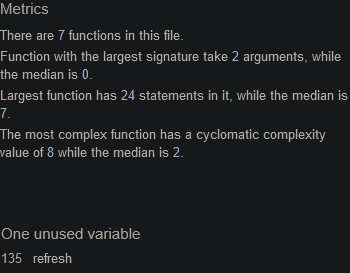
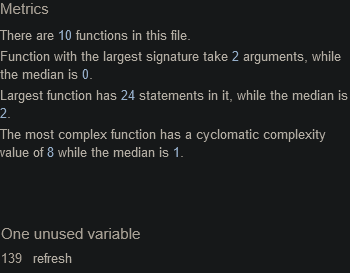
update to readme page (testing section)

diff --git a/assets/js/script.js b/assets/js/script.js
@@ -5,10 +5,10 @@ const resultDisplay = document.querySelector('#result');
 const possibleChoices = document.querySelectorAll('.button');
 const win = document.querySelector('.win');
 const lose = document.querySelector('.lose');
-const open = document.querySelector('#open');
+const openModal = document.querySelector('#open');
 const modalContainer = document.querySelector('#modal_container');
-const close = document.querySelector('#close');
-const dark = document.querySelector('#dark')
+const closeModal = document.querySelector('#close');
+const dark = document.querySelector('#dark');
 const element = document.body;
 let userChoice;
 let computerChoice;
@@ -141,16 +141,16 @@ function refresh(possibleChoices){
 }
 
 // Show the Modal Box when you click the RULES button
-open.addEventListener('click', () => {
+openModal.addEventListener('click', () => {
    modalContainer.classList.add('show');
-})
+});
 
 // Closes the Modal Box when you click the CLOSE button inside.
-close.addEventListener('click', () => {
+closeModal.addEventListener('click', () => {
    modalContainer.classList.remove('show');
-})
+});
 
 // Turns on background colour of the black when you click the DARK MODE button
 dark.addEventListener('click', () => {
    element.classList.toggle('dark-mode');
-})
+});

diff --git a/README.md b/README.md
@@ -194,8 +194,11 @@ This is the main page of the website which provides a playable game of rock, pap
     - ### CSS
 
         - No errors were found when passing through the official Jigsaw Validator.
+
+        - 1 warning line 158: 'auto' is not defined by any specification as an allowed value for 'pointer-events, but is supported in multiple browsers.
         
         <h2 align='center'><img src='assets/images/css-validator.png'></h2>
+        <h2 align='center'><img src='assets/images/css-warning.png'></h2>
 
     - ### JavaScript
 
@@ -203,15 +206,15 @@ This is the main page of the website which provides a playable game of rock, pap
 
             - The following metrics were returned:
 
-            - There 7 functions in this file.
+            - There are 10 functions in this file.
 
             - Function with the largest signature takes 2 arguments, while the median is 0.
 
-            - Largest function has 24 statements in it, while the median is 7.
+            - Largest function has 24 statements in it, while the median is 2.
 
-            - The most complex functions has a cyclomatic complexity value of 8 while the median is 2.
+            - The most complex functions has a cyclomatic complexity value of 8 while the median is 1.
 
-            - One unused variable "refresh".
+            - One unused variable "refresh" on line 139 (this is the refresh function for the RESTART button).
             
         <h2 float='left'><img src='assets/images/js-validator.png'></h2>
 
@@ -238,13 +241,15 @@ This is the main page of the website which provides a playable game of rock, pap
     The live link can be found here -  https://themanintheback.github.io/Project2/
 
 - ## LightHoues Test
+
     - The results are as follows:
-    - Performance: 94
-    - Accessibility: 79
-    - Best Practices: 92
+    - Performance: 93
+    - Accessibility: 75
+    - Best Practices: 100
     - SEO: 91
 
-    <h2 align='center'><img src='assets/images/lighthouse-test.png'></h2
+    <h2 align='center'><img src='assets/images/lighthouse-report.png'></h2
+
 # Credits
 
 - ## Code
@@ -252,6 +257,10 @@ This is the main page of the website which provides a playable game of rock, pap
     - Some of the structure of the JS code came from a coder on a Youtube video found [her](https://www.youtube.com/watch?v=RwFeg0cEZvQ&t=559s)
 
     - Styling of the buttons was taken from the Love Maths Project.
+
+    - Modal box was taken from W3school.
+
+    - Dark Mode button was taken from W3shcool.
 
 - ## Content
 
